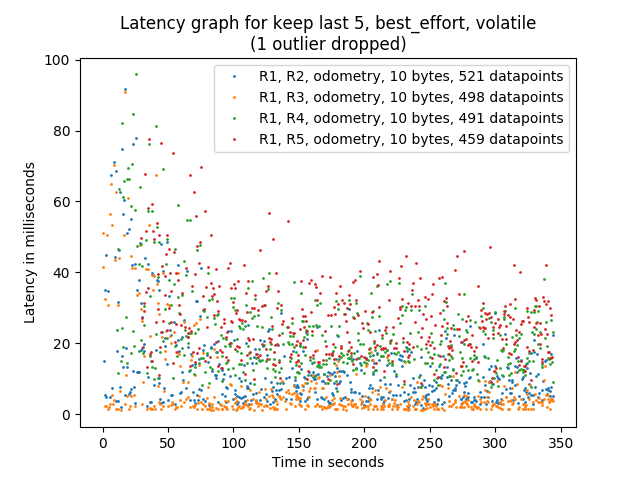
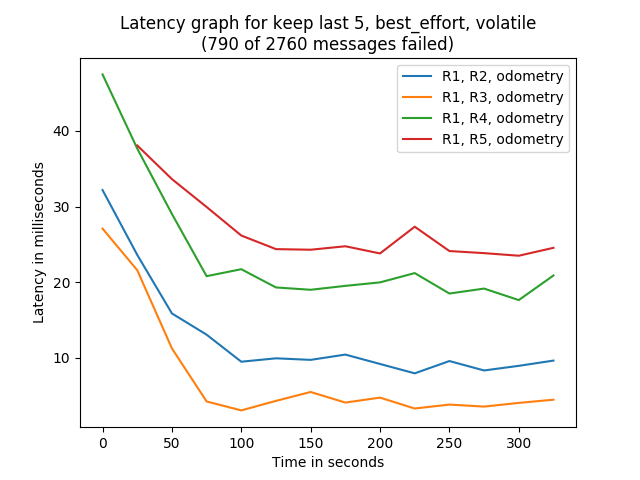
add annotation

diff --git a/testbed_monitor/plot_analytics.py b/testbed_monitor/plot_analytics.py
@@ -7,20 +7,33 @@ import csv
 import matplotlib.pyplot as plt
 
 
-def plot_latency(args, outliers, plots_x, plots_y):
+def plot_latency_points(args, dropped, total, outliers, plots_x, plots_y):
     plt.clf()
-    if outliers == 0:
-        plt.title("Latency graph for %s"%args.dataset_name)
-    elif outliers == 1:
-        plt.title("Latency graph for %s\n(1 outlier dropped)"%args.dataset_name)
+    if outliers == 1:
+        plural = ""
     else:
-        plt.title("Latency graph for %s\n(%d outliers dropped)"%(args.dataset_name,
-                                                             outliers))
+        plural = "s"
+    plt.title("Latency point graph for %s\n(%d of %d messages failed, %d outlier%s dropped)"%(args.dataset_name, dropped, total, outliers, plural))
     plt.ylabel("Latency in milliseconds")
     plt.xlabel("Time in seconds")
     for key in sorted(list(plots_x.keys())):
         plt.plot(plots_x[key], plots_y[key], '.', markersize=2,
                  label="%s, %d datapoints"%(key, len(plots_x[key])))
+    plt.legend()
+    if args.write_file:
+        plt.savefig("%s_latency_points.png"%args.write_file)
+    else:
+        plt.show()
+
+def plot_latency(args, dropped_latencies, total_latencies, plots_x, plots_y):
+    plt.clf()
+    plt.title("Latency graph for %s\n(%d of %d messages failed)"%(
+                  args.dataset_name, dropped_latencies, total_latencies))
+    plt.ylabel("Latency in milliseconds")
+    plt.xlabel("Time in seconds")
+    for key in sorted(list(plots_x.keys())):
+        plt.plot(plots_x[key], plots_y[key], '-', markersize=2,
+                 label=key)
     plt.legend()
     if args.write_file:
         plt.savefig("%s_latency.png"%args.write_file)
@@ -106,8 +119,12 @@ if __name__=="__main__":
                     plots_y_latency[latency_key].append(latency)
 
     # statistics by bar period
+    latencies = defaultdict(list)
     throughputs = defaultdict(list)
     percent_losses = defaultdict(list)
+
+    dropped_latencies = 0
+    total_latencies = 0
     bar_period = args.bar_period
     for key, value in datapoints.items():
         # key = from, to, subscription, _tx_count
@@ -115,15 +132,37 @@ if __name__=="__main__":
         t=((value[0]-t0)//1000000000//bar_period) * bar_period
         stat_key = key[0],key[1],key[2],t
 
-        # throughput, percent_loss
+        # latency
+        latency = float(value[1])
+        if latency:
+            latencies[stat_key].append(latency)
+        else:
+            dropped_latencies += 1
+        total_latencies += 1
+
+        # throughput
         throughput = int(value[2])
+        throughputs[stat_key].append(throughput)
+
+        # percent_loss
         if throughput == 0:
             percent_loss = 100
         else:
             percent_loss = 0
-        
-        throughputs[stat_key].append(throughput)
         percent_losses[stat_key].append(percent_loss)
+
+    # latency
+    latencies_x = defaultdict(list)
+    latencies_y = defaultdict(list)
+    for key, value in latencies.items():
+        if not value:
+            # we do not monitor values when messages are lost
+            continue
+        # key = from, to, subscription, int_second
+        # value = int latencies
+        key_string = "%s, %s, %s"%(key[0],key[1],key[2])
+        latencies_x[key_string].append(key[3]) # second
+        latencies_y[key_string].append(mean(value))
 
     # throughput
     throughputs_x = defaultdict(list)
@@ -145,7 +184,10 @@ if __name__=="__main__":
         percent_losses_x[key_string].append(key[3]) # second
         percent_losses_y[key_string].append(mean(value))
 
-    plot_latency(args, latency_outliers, plots_x_latency, plots_y_latency)
+    plot_latency_points(args, dropped_latencies, total_latencies,
+                        latency_outliers, plots_x_latency, plots_y_latency)
+    plot_latency(args, dropped_latencies, total_latencies,
+                                    latencies_x, latencies_y)
     plot_throughput(args, throughputs_x, throughputs_y)
     plot_loss(args, percent_losses_x, percent_losses_y)
 
